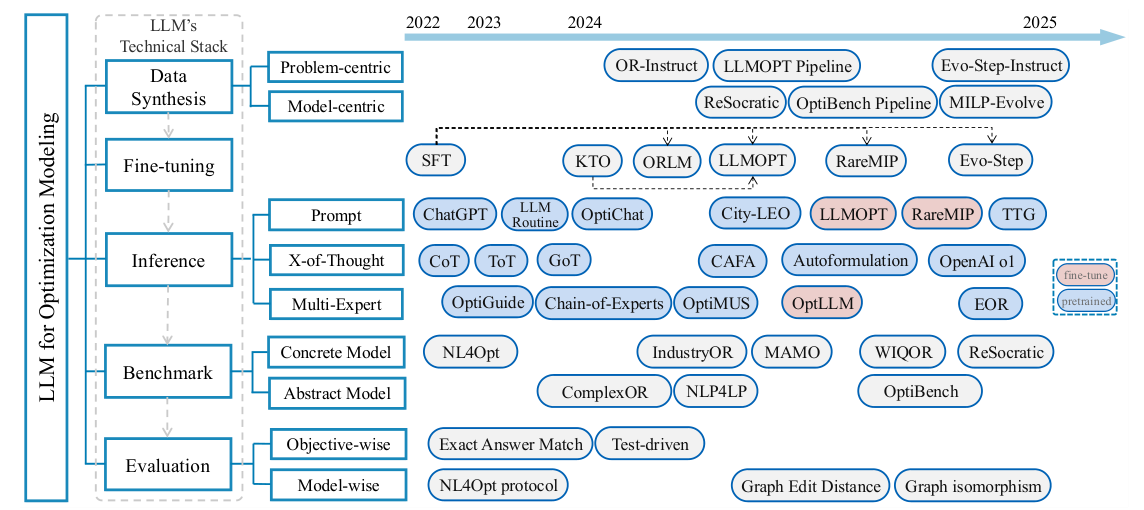
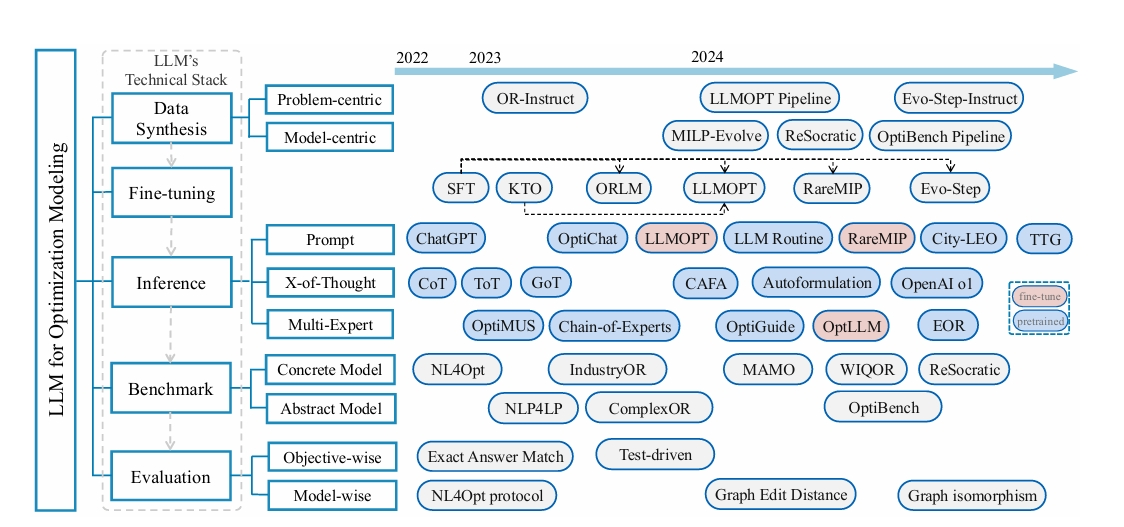
Publish AI4OPT research website

diff --git a/publications/modeling-survey/index.html b/publications/modeling-survey/index.html
@@ -4,10 +4,10 @@
       <button class="menu-toggle" type="button" aria-expanded="false" aria-controls="main-navigation"><span data-en="Menu" data-zh="菜单" >Menu</span></button>
       <nav id="main-navigation" aria-label="Main navigation"><a href="../../index.html#selected"><span data-en="Selected works" data-zh="精选成果" >Selected works</span></a><a href="../../index.html#news"><span data-en="News" data-zh="动态" >News</span></a><a href="../../index.html#teams"><span data-en="Teams" data-zh="合作团队" >Teams</span></a><a href="../../index.html#about"><span data-en="About" data-zh="关于" >About</span></a><a href="../../publications/" class="archive-nav"><span data-en="All publications" data-zh="全部论文" >All publications</span></a></nav>
       <button type="button" class="language-toggle" aria-label="Switch to Chinese">中文</button>
-    </div></header><main id="main" class="paper-page paper-page--detailed container"><a class="back-link" href="../">← <span data-en="All publications" data-zh="全部论文" >All publications</span></a><div class="paper-header"><div class="eyebrow">IJCAI · Survey 2025 <span class="dot-separator">/</span> <span data-en="Benchmarks &amp; evaluation" data-zh="数据集与评测" >Benchmarks &amp; evaluation</span></div><h1>A Survey of Optimization Modeling Meets LLMs: Progress and Future Directions</h1><p class="paper-authors">Ziyang Xiao, Jingrong Xie, Lilin Xu, Shisi Guan, Jingyan Zhu, Xiongwei Han, Xiaojin Fu, WingYin Yu, Han Wu, Wei Shi, Qingcan Kang, Jiahui Duan, Tao Zhong, Mingxuan Yuan, Jia Zeng, Yuan Wang, Gang Chen, Dongxiang Zhang</p><div class="paper-actions"><a href="https://www.ijcai.org/proceedings/2025/1192" target="_blank" rel="noopener noreferrer" class="button button-primary"><span data-en="Read the paper" data-zh="阅读原论文" >Read the paper</span><span class="external-arrow" aria-hidden="true">↗</span></a><a href="https://llm4or.github.io/LLM4OR" target="_blank" rel="noopener noreferrer" class="button button-secondary"><span data-en="Research portal" data-zh="Research portal" >Research portal</span><span class="external-arrow" aria-hidden="true">↗</span></a><a href="https://github.com/LLM4OR/LLM4OR" target="_blank" rel="noopener noreferrer" class="button button-secondary"><span data-en="Repository" data-zh="代码库" >Repository</span><span class="external-arrow" aria-hidden="true">↗</span></a><a class="button button-secondary" href="#citation"><span data-en="Cite this work" data-zh="引用这项工作" >Cite this work</span></a></div></div><div class="paper-lead"><p data-en="A systematic map of LLM-based optimization modeling, from data and training to inference, benchmarks, and evaluation." data-zh="系统梳理大模型优化建模，从数据与训练、推理方法到基准和评价。" >A systematic map of LLM-based optimization modeling, from data and training to inference, benchmarks, and evaluation.</p></div><figure class="paper-framework"><a href="../../assets/papers/modeling-survey/framework.png" target="_blank" rel="noopener"><img src="../../assets/papers/modeling-survey/framework.png" width="1144" height="510" alt="Taxonomy and timeline of LLM optimization modeling methods organized by technical stack." data-alt-en="Taxonomy and timeline of LLM optimization modeling methods organized by technical stack." data-alt-zh="按技术栈组织的大模型优化建模方法分类与发展时间线。" class="paper-framework-image"></a><figcaption><p data-en="A taxonomy of LLM-based optimization modeling across data synthesis, fine-tuning, inference, benchmarks, and evaluation, with representative methods arranged chronologically." data-zh="大模型优化建模的技术分类，涵盖数据合成、微调、推理、基准和评价，并按时间列出代表性方法。" >A taxonomy of LLM-based optimization modeling across data synthesis, fine-tuning, inference, benchmarks, and evaluation, with representative methods arranged chronologically.</p><div class="figure-source"><span data-en="Xiao et al. · IJCAI 2025 · Figure 3" data-zh="Xiao 等 · IJCAI 2025 · 图 3" >Xiao et al. · IJCAI 2025 · Figure 3</span><a href="https://www.ijcai.org/proceedings/2025/1192.pdf#page=3" target="_blank" rel="noopener noreferrer" ><span data-en="View in paper" data-zh="查看论文原图" >View in paper</span><span class="external-arrow" aria-hidden="true">↗</span></a></div></figcaption></figure><div class="paper-explainers"><section class="paper-explainer"><h2 class="paper-section-title">01 / <span data-en="Research question" data-zh="研究问题" >Research question</span></h2><p data-en="How can LLMs be guided to turn problem descriptions into reliable optimization models, and how can progress be evaluated fairly?" data-zh="如何引导大模型把问题描述转化为可靠的优化模型，又该如何公平评价进展？" >How can LLMs be guided to turn problem descriptions into reliable optimization models, and how can progress be evaluated fairly?</p></section><section class="paper-explainer"><h2 class="paper-section-title">02 / <span data-en="Approach" data-zh="核心方法" >Approach</span></h2><p data-en="The survey organizes prior work into a four-stage technical stack: data synthesis and fine-tuning, inference methods, benchmarks, and evaluation. It distinguishes concrete from abstract modeling; groups inference into prompting, X-of-Thought reasoning, and multi-agent collaboration; and compares objective-wise with model-wise evaluation. The authors also audited benchmark quality with 11 human experts, cross-validating each identified error with at least three experts, removed erroneous cases, and reran fully open-source methods in a unified setting." data-zh="论文把已有工作组织为四阶段技术栈：数据合成与微调、推理方法、基准数据集和评价方法。综述区分具体建模与抽象建模，将推理方法归纳为提示、X-of-Thought 推理和多智能体协作，并比较目标值评价与模型结构评价。作者还邀请 11 位专家检查基准质量，每个识别出的错误至少由 3 位专家交叉复核；清理错误样本后，再在统一设置下复测开放方法。" >The survey organizes prior work into a four-stage technical stack: data synthesis and fine-tuning, inference methods, benchmarks, and evaluation. It distinguishes concrete from abstract modeling; groups inference into prompting, X-of-Thought reasoning, and multi-agent collaboration; and compares objective-wise with model-wise evaluation. The authors also audited benchmark quality with 11 human experts, cross-validating each identified error with at least three experts, removed erroneous cases, and reran fully open-source methods in a unified setting.</p></section><section class="paper-explainer"><h2 class="paper-section-title">03 / <span data-en="Research scope" data-zh="研究范围" >Research scope</span></h2><p data-en="The audit covers seven benchmarks, with test-set sizes from 37 to 652; reported minimum error rates range from 8.13% for EasyLP to 54.0% for IndustryOR. For a unified comparison, the authors evaluate fully open-source methods on the cleaned datasets, using GPT-4o-2024-08-06 for training-free methods and accuracy as the metric. They also discuss gaps in complex-problem coverage, inconsistent evaluation protocols, reasoning-model training, domain knowledge, and human-in-the-loop modeling." data-zh="基准审查覆盖 7 个数据集，测试集规模为 37 至 652 题；论文报告的错误率下界从 EasyLP 的 8.13% 到 IndustryOR 的 54.0% 不等。为了统一比较，作者在清理后的数据集上评估开放方法：免训练方法统一采用 GPT-4o-2024-08-06，并以准确率为指标。论文还讨论复杂问题覆盖不足、评价协议不一致、推理模型训练、领域知识注入和人工参与建模等研究空缺。" >The audit covers seven benchmarks, with test-set sizes from 37 to 652; reported minimum error rates range from 8.13% for EasyLP to 54.0% for IndustryOR. For a unified comparison, the authors evaluate fully open-source methods on the cleaned datasets, using GPT-4o-2024-08-06 for training-free methods and accuracy as the metric. They also discuss gaps in complex-problem coverage, inconsistent evaluation protocols, reasoning-model training, domain knowledge, and human-in-the-loop modeling.</p></section></div><section id="results" class="paper-results"><h2><span data-en="Experimental results" data-zh="实验结果" >Experimental results</span></h2><section class="experiment"><h3 data-en="Benchmark quality audit" data-zh="基准数据质量审查" >Benchmark quality audit</h3><div class="results-table-scroll" role="region" aria-labelledby="modeling-survey-results-1" tabindex="0"><table class="results-table"><caption id="modeling-survey-results-1"><span data-en="Reported minimum error rate (%); higher values indicate more identified annotation or problem errors. Complexity is the average number of generated variables and constraints." data-zh="论文报告的错误率下界（%）；数值越高，表示识别出的标注或问题错误越多。复杂度为生成模型中变量与约束数量的平均值。" >Reported minimum error rate (%); higher values indicate more identified annotation or problem errors. Complexity is the average number of generated variables and constraints.</span></caption><thead><tr><th scope="col"><span data-en="Method" data-zh="方法" >Method</span></th><th scope="col"><span data-en="Test instances" data-zh="测试样本数" >Test instances</span></th><th scope="col"><span data-en="Complexity" data-zh="复杂度" >Complexity</span></th><th scope="col"><span data-en="Error rate lower bound (%)" data-zh="错误率下界（%）" >Error rate lower bound (%)</span></th></tr></thead><tbody><tr><th scope="row">NL4Opt</th><td>289</td><td>5.59</td><td>26.40</td></tr><tr><th scope="row">IndustryOR</th><td>100</td><td><strong>14.06</strong></td><td><strong>54.00</strong></td></tr><tr><th scope="row">EasyLP</th><td><strong>652</strong></td><td>7.12</td><td>8.13</td></tr><tr><th scope="row">ComplexLP</th><td>211</td><td>13.35</td><td>23.70</td></tr><tr><th scope="row">ReSocratic</th><td>605</td><td>7.45</td><td>16.00</td></tr><tr><th scope="row">NLP4LP</th><td>269</td><td>5.58</td><td>21.70</td></tr><tr><th scope="row">ComplexOR</th><td>37</td><td>5.98</td><td>24.30</td></tr></tbody></table></div><p data-en="The paper reports these error rates as lower bounds (≥), based on expert review; 11 experts participated and each error case was cross-validated by at least three. Complexity is a paper-defined indicator based on the number of variables and constraints." data-zh="论文将错误率报告为下界（≥），依据专家审查结果；共有 11 位专家参与，每个错误样本至少经 3 人交叉复核。复杂度是论文定义的指标，根据变量与约束数量计算。" class="result-note">The paper reports these error rates as lower bounds (≥), based on expert review; 11 experts participated and each error case was cross-validated by at least three. Complexity is a paper-defined indicator based on the number of variables and constraints.</p><p data-en="The audit finds substantial quality problems across commonly used benchmarks, particularly IndustryOR. The authors remove erroneous cases and provide a cleaned collection for more reliable evaluation." data-zh="审查发现多个常用基准存在较明显的数据质量问题，IndustryOR 尤为突出。作者清理错误样本并汇总为统一数据集，以支持更可靠的评价。" class="result-explanation">The audit finds substantial quality problems across commonly used benchmarks, particularly IndustryOR. The authors remove erroneous cases and provide a cleaned collection for more reliable evaluation.</p></section><section class="experiment"><h3 data-en="Unified accuracy on cleaned benchmarks" data-zh="清理后基准上的统一准确率" >Unified accuracy on cleaned benchmarks</h3><div class="results-table-scroll" role="region" aria-labelledby="modeling-survey-results-2" tabindex="0"><table class="results-table"><caption id="modeling-survey-results-2"><span data-en="Accuracy (%). Training-free methods use GPT-4o-2024-08-06; results are reproduced in the paper’s unified evaluation setting." data-zh="准确率（%）。免训练方法使用 GPT-4o-2024-08-06；结果由论文在统一评价设置下复现。" >Accuracy (%). Training-free methods use GPT-4o-2024-08-06; results are reproduced in the paper’s unified evaluation setting.</span></caption><thead><tr><th scope="col"><span data-en="Method" data-zh="方法" >Method</span></th><th scope="col">NL4Opt</th><th scope="col">IndustryOR</th><th scope="col">EasyLP</th><th scope="col">ComplexLP</th><th scope="col">NLP4LP</th><th scope="col">ReSocratic</th><th scope="col">ComplexOR</th></tr></thead><tbody><tr><th scope="row">Standard</th><td>61.2</td><td>38.1</td><td>70.3</td><td>57.7</td><td>73.6</td><td>48.4</td><td>42.9</td></tr><tr><th scope="row">Chain-of-Thought</th><td>62.2</td><td>40.5</td><td>49.5</td><td>42.3</td><td>74.7</td><td>43.6</td><td>39.2</td></tr><tr><th scope="row">Chain-of-Experts</th><td>66.7</td><td>31.2</td><td><strong>94.4</strong></td><td>50.6</td><td><strong>87.4</strong></td><td><strong>71.2</strong></td><td><strong>57.1</strong></td></tr><tr><th scope="row">CAFA</th><td>68.1</td><td>41.1</td><td>71.2</td><td>44.5</td><td>50.0</td><td>40.1</td><td>46.4</td></tr><tr><th scope="row">ORLM-LLaMA-3 8B</th><td><strong>73.8</strong></td><td><strong>42.9</strong></td><td>90.4</td><td><strong>59.5</strong></td><td>76.4</td><td>61.8</td><td>50.0</td></tr></tbody></table></div><p data-en="All methods are evaluated on the same cleaned benchmark data. Some approaches discussed in the survey are not included because they are closed-source or interactive." data-zh="所有方法均在同一份清理后基准数据上评估。综述中部分方法因闭源或需要交互，未纳入该统一比较。" class="result-note">All methods are evaluated on the same cleaned benchmark data. Some approaches discussed in the survey are not included because they are closed-source or interactive.</p><p data-en="No single method wins on every benchmark. The results support the survey’s call for standardized data and evaluation, and show that gains from reasoning strategies vary with the dataset." data-zh="没有一种方法在所有基准上都领先。结果说明统一数据与评价协议十分必要，也表明推理策略的收益会随数据集而变化。" class="result-explanation">No single method wins on every benchmark. The results support the survey’s call for standardized data and evaluation, and show that gains from reasoning strategies vary with the dataset.</p></section></section><section id="citation" class="citation"><div class="section-heading"><h2><span data-en="Citation" data-zh="论文引用" >Citation</span></h2><button class="copy-citation" type="button"><span data-en="Copy BibTeX" data-zh="复制 BibTeX" >Copy BibTeX</span></button></div><pre><code>@inproceedings{modelingsurvey2025,
+    </div></header><main id="main" class="paper-page paper-page--detailed container"><a class="back-link" href="../">← <span data-en="All publications" data-zh="全部论文" >All publications</span></a><div class="paper-header"><div class="eyebrow">IJCAI · Survey 2025 <span class="dot-separator">/</span> <span data-en="Benchmarks &amp; evaluation" data-zh="数据集与评测" >Benchmarks &amp; evaluation</span></div><h1>A Survey of Optimization Modeling Meets LLMs: Progress and Future Directions</h1><p class="paper-authors">Ziyang Xiao, Jingrong Xie, Lilin Xu, Shisi Guan, Jingyan Zhu, Xiongwei Han, Xiaojin Fu, WingYin Yu, Han Wu, Wei Shi, Qingcan Kang, Jiahui Duan, Tao Zhong, Mingxuan Yuan, Jia Zeng, Yuan Wang, Gang Chen, Dongxiang Zhang</p><div class="paper-actions"><a href="https://www.ijcai.org/proceedings/2025/1192" target="_blank" rel="noopener noreferrer" class="button button-primary"><span data-en="Read the paper" data-zh="阅读原论文" >Read the paper</span><span class="external-arrow" aria-hidden="true">↗</span></a><a href="https://llm4or.github.io/LLM4OR" target="_blank" rel="noopener noreferrer" class="button button-secondary"><span data-en="Research portal" data-zh="Research portal" >Research portal</span><span class="external-arrow" aria-hidden="true">↗</span></a><a href="https://github.com/LLM4OR/LLM4OR" target="_blank" rel="noopener noreferrer" class="button button-secondary"><span data-en="Repository" data-zh="代码库" >Repository</span><span class="external-arrow" aria-hidden="true">↗</span></a><a class="button button-secondary" href="#citation"><span data-en="Cite this work" data-zh="引用这项工作" >Cite this work</span></a></div></div><div class="paper-lead"><p data-en="A systematic map of LLM-based optimization modeling, from data and training to inference, benchmarks, and evaluation." data-zh="系统梳理大模型优化建模，从数据与训练、推理方法到基准和评价。" >A systematic map of LLM-based optimization modeling, from data and training to inference, benchmarks, and evaluation.</p></div><figure class="paper-framework"><a href="../../assets/papers/modeling-survey/framework.png" target="_blank" rel="noopener"><img src="../../assets/papers/modeling-survey/framework.png" width="1124" height="527" alt="A clear taxonomy and timeline of LLM optimization modeling methods organized by technical stack." data-alt-en="A clear taxonomy and timeline of LLM optimization modeling methods organized by technical stack." data-alt-zh="按技术栈组织的大模型优化建模方法分类与发展时间线。" class="paper-framework-image"></a><figcaption><p data-en="A taxonomy of LLM-based optimization modeling across data synthesis, fine-tuning, inference, benchmarks, and evaluation, with representative methods arranged chronologically." data-zh="大模型优化建模的技术分类，涵盖数据合成、微调、推理、基准和评价，并按时间列出代表性方法。" >A taxonomy of LLM-based optimization modeling across data synthesis, fine-tuning, inference, benchmarks, and evaluation, with representative methods arranged chronologically.</p><div class="figure-source"><span data-en="Xiao et al. · IJCAI 2025 · Figure 3" data-zh="Xiao 等 · IJCAI 2025 · 图 3" >Xiao et al. · IJCAI 2025 · Figure 3</span><a href="https://www.ijcai.org/proceedings/2025/1192.pdf#page=3" target="_blank" rel="noopener noreferrer" ><span data-en="View in paper" data-zh="查看论文原图" >View in paper</span><span class="external-arrow" aria-hidden="true">↗</span></a></div></figcaption></figure><div class="paper-explainers"><section class="paper-explainer"><h2 class="paper-section-title">01 / <span data-en="Research question" data-zh="研究问题" >Research question</span></h2><p data-en="How can LLMs be guided to turn problem descriptions into reliable optimization models, and how can progress be evaluated fairly?" data-zh="如何引导大模型把问题描述转化为可靠的优化模型，又该如何公平评价进展？" >How can LLMs be guided to turn problem descriptions into reliable optimization models, and how can progress be evaluated fairly?</p></section><section class="paper-explainer"><h2 class="paper-section-title">02 / <span data-en="Approach" data-zh="核心方法" >Approach</span></h2><p data-en="The survey organizes prior work into a four-stage technical stack: data synthesis and fine-tuning, inference methods, benchmarks, and evaluation. It distinguishes concrete from abstract modeling; groups inference into prompting, X-of-Thought reasoning, and multi-agent collaboration; and compares objective-wise with model-wise evaluation. The authors also audited benchmark quality with 11 human experts, cross-validating each identified error with at least three experts, removed erroneous cases, and reran fully open-source methods in a unified setting." data-zh="论文把已有工作组织为四阶段技术栈：数据合成与微调、推理方法、基准数据集和评价方法。综述区分具体建模与抽象建模，将推理方法归纳为提示、X-of-Thought 推理和多智能体协作，并比较目标值评价与模型结构评价。作者还邀请 11 位专家检查基准质量，每个识别出的错误至少由 3 位专家交叉复核；清理错误样本后，再在统一设置下复测开放方法。" >The survey organizes prior work into a four-stage technical stack: data synthesis and fine-tuning, inference methods, benchmarks, and evaluation. It distinguishes concrete from abstract modeling; groups inference into prompting, X-of-Thought reasoning, and multi-agent collaboration; and compares objective-wise with model-wise evaluation. The authors also audited benchmark quality with 11 human experts, cross-validating each identified error with at least three experts, removed erroneous cases, and reran fully open-source methods in a unified setting.</p></section><section class="paper-explainer"><h2 class="paper-section-title">03 / <span data-en="Research scope" data-zh="研究范围" >Research scope</span></h2><p data-en="The audit covers seven benchmarks, with test-set sizes from 37 to 652; reported minimum error rates range from 8.13% for EasyLP to 54.0% for IndustryOR. For a unified comparison, the authors evaluate fully open-source methods on the cleaned datasets, using GPT-4o-2024-08-06 for training-free methods and accuracy as the metric. They also discuss gaps in complex-problem coverage, inconsistent evaluation protocols, reasoning-model training, domain knowledge, and human-in-the-loop modeling." data-zh="基准审查覆盖 7 个数据集，测试集规模为 37 至 652 题；论文报告的错误率下界从 EasyLP 的 8.13% 到 IndustryOR 的 54.0% 不等。为了统一比较，作者在清理后的数据集上评估开放方法：免训练方法统一采用 GPT-4o-2024-08-06，并以准确率为指标。论文还讨论复杂问题覆盖不足、评价协议不一致、推理模型训练、领域知识注入和人工参与建模等研究空缺。" >The audit covers seven benchmarks, with test-set sizes from 37 to 652; reported minimum error rates range from 8.13% for EasyLP to 54.0% for IndustryOR. For a unified comparison, the authors evaluate fully open-source methods on the cleaned datasets, using GPT-4o-2024-08-06 for training-free methods and accuracy as the metric. They also discuss gaps in complex-problem coverage, inconsistent evaluation protocols, reasoning-model training, domain knowledge, and human-in-the-loop modeling.</p></section></div><section id="results" class="paper-results"><h2><span data-en="Experimental results" data-zh="实验结果" >Experimental results</span></h2><section class="experiment"><h3 data-en="Benchmark quality audit" data-zh="基准数据质量审查" >Benchmark quality audit</h3><div class="results-table-scroll" role="region" aria-labelledby="modeling-survey-results-1" tabindex="0"><table class="results-table"><caption id="modeling-survey-results-1"><span data-en="Reported minimum error rate (%); higher values indicate more identified annotation or problem errors. Complexity is the average number of generated variables and constraints." data-zh="论文报告的错误率下界（%）；数值越高，表示识别出的标注或问题错误越多。复杂度为生成模型中变量与约束数量的平均值。" >Reported minimum error rate (%); higher values indicate more identified annotation or problem errors. Complexity is the average number of generated variables and constraints.</span></caption><thead><tr><th scope="col"><span data-en="Method" data-zh="方法" >Method</span></th><th scope="col"><span data-en="Test instances" data-zh="测试样本数" >Test instances</span></th><th scope="col"><span data-en="Complexity" data-zh="复杂度" >Complexity</span></th><th scope="col"><span data-en="Error rate lower bound (%)" data-zh="错误率下界（%）" >Error rate lower bound (%)</span></th></tr></thead><tbody><tr><th scope="row">NL4Opt</th><td>289</td><td>5.59</td><td>26.40</td></tr><tr><th scope="row">IndustryOR</th><td>100</td><td><strong>14.06</strong></td><td><strong>54.00</strong></td></tr><tr><th scope="row">EasyLP</th><td><strong>652</strong></td><td>7.12</td><td>8.13</td></tr><tr><th scope="row">ComplexLP</th><td>211</td><td>13.35</td><td>23.70</td></tr><tr><th scope="row">ReSocratic</th><td>605</td><td>7.45</td><td>16.00</td></tr><tr><th scope="row">NLP4LP</th><td>269</td><td>5.58</td><td>21.70</td></tr><tr><th scope="row">ComplexOR</th><td>37</td><td>5.98</td><td>24.30</td></tr></tbody></table></div><p data-en="The paper reports these error rates as lower bounds (≥), based on expert review; 11 experts participated and each error case was cross-validated by at least three. Complexity is a paper-defined indicator based on the number of variables and constraints." data-zh="论文将错误率报告为下界（≥），依据专家审查结果；共有 11 位专家参与，每个错误样本至少经 3 人交叉复核。复杂度是论文定义的指标，根据变量与约束数量计算。" class="result-note">The paper reports these error rates as lower bounds (≥), based on expert review; 11 experts participated and each error case was cross-validated by at least three. Complexity is a paper-defined indicator based on the number of variables and constraints.</p><p data-en="The audit finds substantial quality problems across commonly used benchmarks, particularly IndustryOR. The authors remove erroneous cases and provide a cleaned collection for more reliable evaluation." data-zh="审查发现多个常用基准存在较明显的数据质量问题，IndustryOR 尤为突出。作者清理错误样本并汇总为统一数据集，以支持更可靠的评价。" class="result-explanation">The audit finds substantial quality problems across commonly used benchmarks, particularly IndustryOR. The authors remove erroneous cases and provide a cleaned collection for more reliable evaluation.</p></section><section class="experiment"><h3 data-en="Unified accuracy on cleaned benchmarks" data-zh="清理后基准上的统一准确率" >Unified accuracy on cleaned benchmarks</h3><div class="results-table-scroll" role="region" aria-labelledby="modeling-survey-results-2" tabindex="0"><table class="results-table"><caption id="modeling-survey-results-2"><span data-en="Accuracy (%). Training-free methods use GPT-4o-2024-08-06; results are reproduced in the paper’s unified evaluation setting." data-zh="准确率（%）。免训练方法使用 GPT-4o-2024-08-06；结果由论文在统一评价设置下复现。" >Accuracy (%). Training-free methods use GPT-4o-2024-08-06; results are reproduced in the paper’s unified evaluation setting.</span></caption><thead><tr><th scope="col"><span data-en="Method" data-zh="方法" >Method</span></th><th scope="col">NL4Opt</th><th scope="col">IndustryOR</th><th scope="col">EasyLP</th><th scope="col">ComplexLP</th><th scope="col">NLP4LP</th><th scope="col">ReSocratic</th><th scope="col">ComplexOR</th></tr></thead><tbody><tr><th scope="row">Standard</th><td>61.2</td><td>38.1</td><td>70.3</td><td>57.7</td><td>73.6</td><td>48.4</td><td>42.9</td></tr><tr><th scope="row">Chain-of-Thought</th><td>62.2</td><td>40.5</td><td>49.5</td><td>42.3</td><td>74.7</td><td>43.6</td><td>39.2</td></tr><tr><th scope="row">Chain-of-Experts</th><td>66.7</td><td>31.2</td><td><strong>94.4</strong></td><td>50.6</td><td><strong>87.4</strong></td><td><strong>71.2</strong></td><td><strong>57.1</strong></td></tr><tr><th scope="row">CAFA</th><td>68.1</td><td>41.1</td><td>71.2</td><td>44.5</td><td>50.0</td><td>40.1</td><td>46.4</td></tr><tr><th scope="row">ORLM-LLaMA-3 8B</th><td><strong>73.8</strong></td><td><strong>42.9</strong></td><td>90.4</td><td><strong>59.5</strong></td><td>76.4</td><td>61.8</td><td>50.0</td></tr></tbody></table></div><p data-en="All methods are evaluated on the same cleaned benchmark data. Some approaches discussed in the survey are not included because they are closed-source or interactive." data-zh="所有方法均在同一份清理后基准数据上评估。综述中部分方法因闭源或需要交互，未纳入该统一比较。" class="result-note">All methods are evaluated on the same cleaned benchmark data. Some approaches discussed in the survey are not included because they are closed-source or interactive.</p><p data-en="No single method wins on every benchmark. The results support the survey’s call for standardized data and evaluation, and show that gains from reasoning strategies vary with the dataset." data-zh="没有一种方法在所有基准上都领先。结果说明统一数据与评价协议十分必要，也表明推理策略的收益会随数据集而变化。" class="result-explanation">No single method wins on every benchmark. The results support the survey’s call for standardized data and evaluation, and show that gains from reasoning strategies vary with the dataset.</p></section></section><section id="citation" class="citation"><div class="section-heading"><h2><span data-en="Citation" data-zh="论文引用" >Citation</span></h2><button class="copy-citation" type="button"><span data-en="Copy BibTeX" data-zh="复制 BibTeX" >Copy BibTeX</span></button></div><pre><code>@inproceedings{modelingsurvey2025,
   title = {A Survey of Optimization Modeling Meets LLMs: Progress and Future Directions},
   author = {Ziyang Xiao and Jingrong Xie and Lilin Xu and Shisi Guan and Jingyan Zhu and Xiongwei Han and Xiaojin Fu and WingYin Yu and Han Wu and Wei Shi and Qingcan Kang and Jiahui Duan and Tao Zhong and Mingxuan Yuan and Jia Zeng and Yuan Wang and Gang Chen and Dongxiang Zhang},
   booktitle = {IJCAI · Survey},
   year = {2025},
   url = {https://www.ijcai.org/proceedings/2025/1192}
-}</code></pre></section><section class="related-section"><h2><span data-en="Related research" data-zh="相关研究" >Related research</span></h2><a class="related-paper" href="../oragentbench/"><span>arXiv 2026</span><strong>ORAgentBench</strong><span aria-hidden="true">↗</span></a><a class="related-paper" href="../optibench-resocratic/"><span>ICLR 2025</span><strong>OptiBench & ReSocratic</strong><span aria-hidden="true">↗</span></a></section></main><footer class="site-footer"><div class="container footer-inner"><div><a class="wordmark" href="../../index.html">AI4OPT<span class="wordmark-period">.</span></a><p>Huawei Noah’s Ark Lab</p></div><p><span data-en="Intelligent Optimization Modeling" data-zh="智能运筹建模" >Intelligent Optimization Modeling</span><br><span class="muted"><span data-en="Research, shared." data-zh="让研究被理解，让成果被共享。" >Research, shared.</span></span></p><a href="../../publications.bib" download><span data-en="Download bibliography" data-zh="下载论文引用" >Download bibliography</span> <span aria-hidden="true">↓</span></a></div><div class="container footer-bottom"><span>© 2026 AI4OPT</span><span data-en="Research website · First preview" data-zh="研究成果网站 · 首版预览" >Research website · First preview</span></div></footer><div class="toast" role="status" aria-live="polite" hidden></div></body></html>
+}</code></pre></section><section class="related-section"><h2><span data-en="Related research" data-zh="相关研究" >Related research</span></h2><a class="related-paper" href="../deepor/"><span>AAAI 2026</span><strong>DeepOR</strong><span aria-hidden="true">↗</span></a><a class="related-paper" href="../optibench-resocratic/"><span>ICLR 2025</span><strong>OptiBench & ReSocratic</strong><span aria-hidden="true">↗</span></a></section></main><footer class="site-footer"><div class="container footer-inner"><div><a class="wordmark" href="../../index.html">AI4OPT<span class="wordmark-period">.</span></a><p>Huawei Noah’s Ark Lab</p></div><p><span data-en="Intelligent Optimization Modeling" data-zh="智能运筹建模" >Intelligent Optimization Modeling</span><br><span class="muted"><span data-en="Research, shared." data-zh="让研究被理解，让成果被共享。" >Research, shared.</span></span></p><a href="../../publications.bib" download><span data-en="Download bibliography" data-zh="下载论文引用" >Download bibliography</span> <span aria-hidden="true">↓</span></a></div><div class="container footer-bottom"><span>© 2026 AI4OPT</span><span data-en="Research website · First preview" data-zh="研究成果网站 · 首版预览" >Research website · First preview</span></div></footer><div class="toast" role="status" aria-live="polite" hidden></div></body></html>
